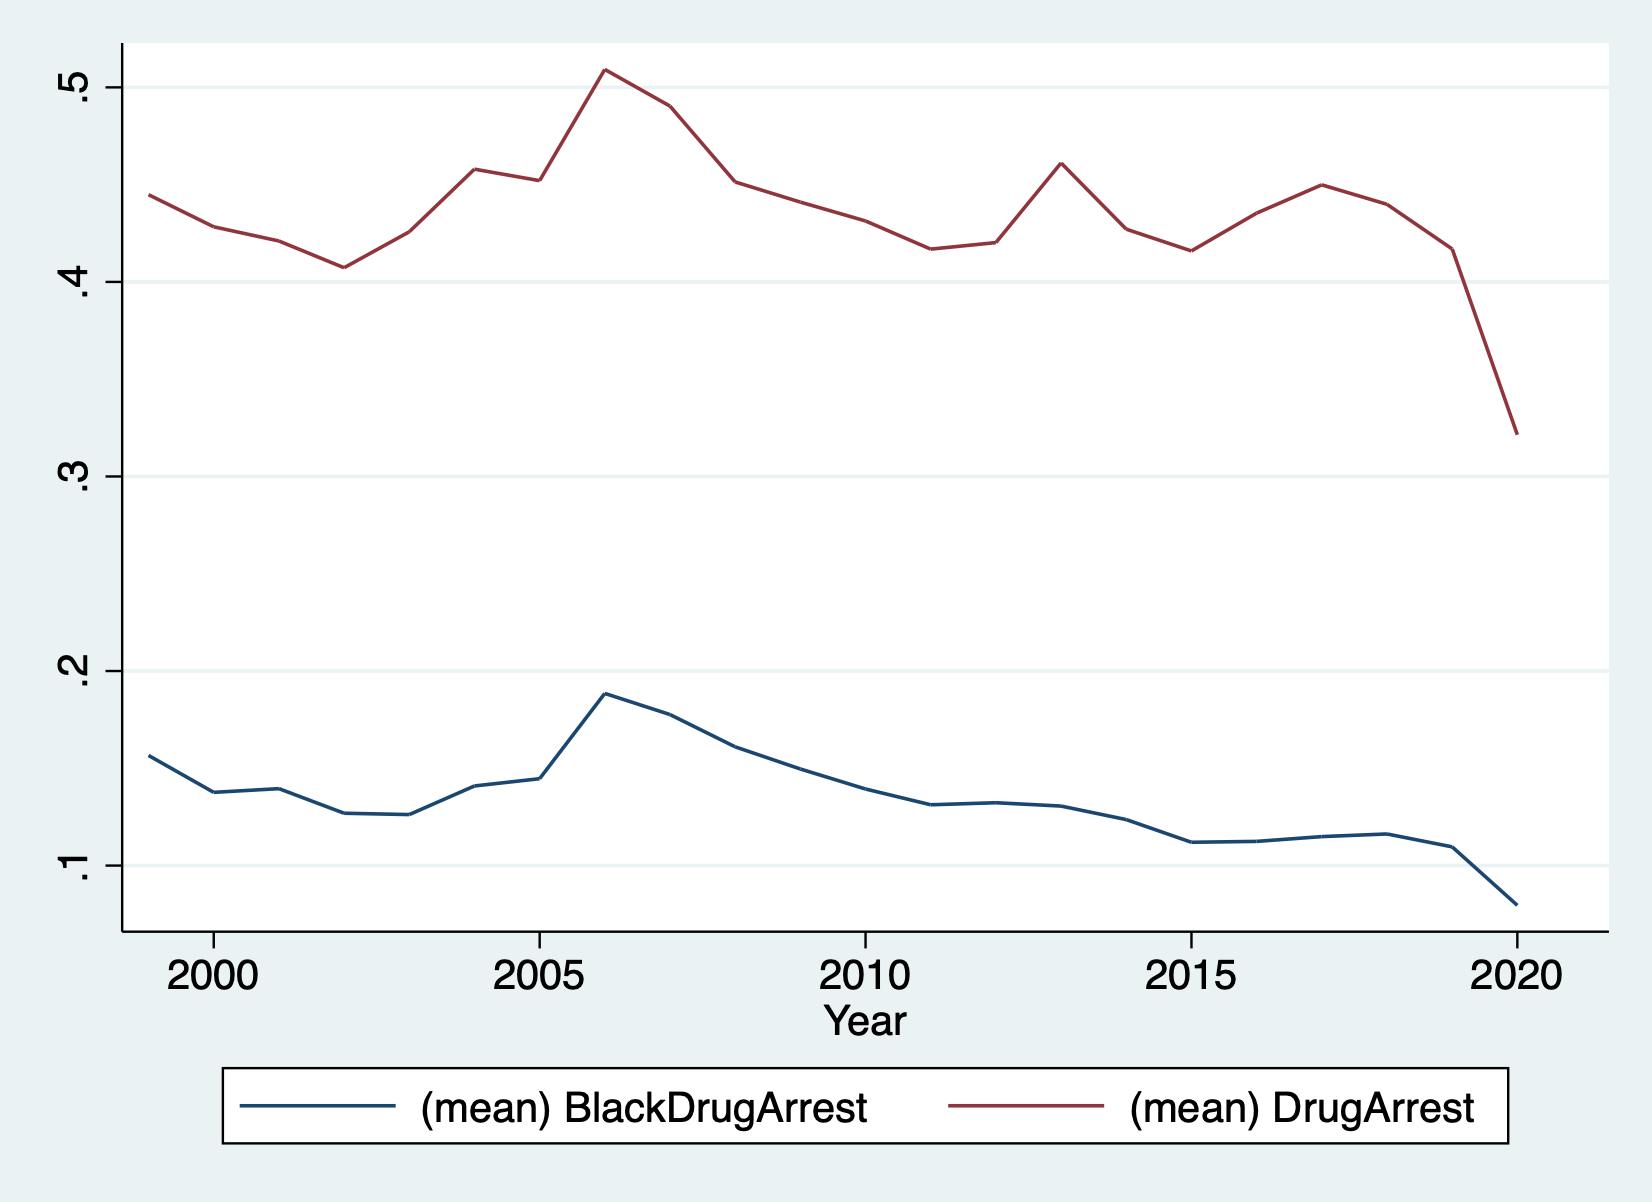
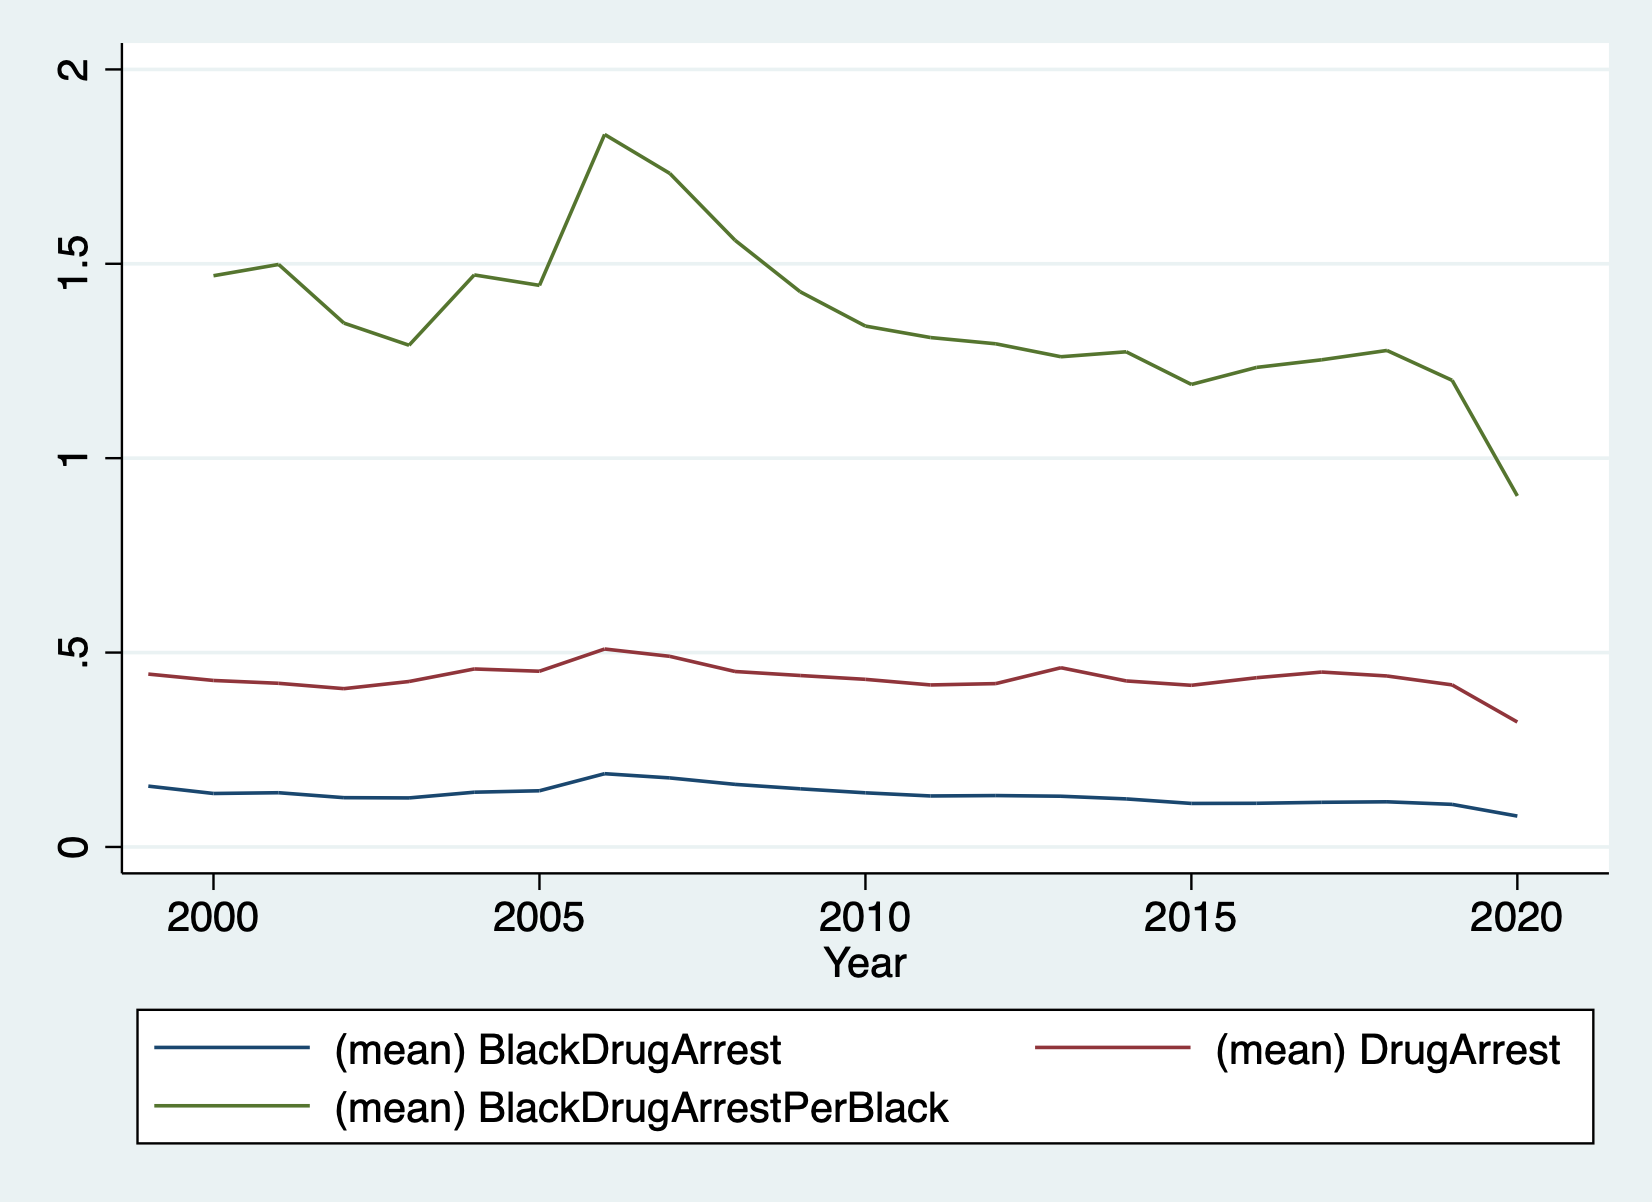
update

diff --git a/summary_stats.tex b/summary_stats.tex
@@ -9,6 +9,8 @@ Total arrest over population&        1065&       4.635&       1.428&       0.832
 Total arrest for Afr. Am. over population&        1065&       1.175&       1.059&       0.000&       5.776\\
 Drug arrest over population&        1065&       0.435&       0.198&       0.047&       1.740\\
 Drug arrest for Afr. Am. over population&        1065&       0.134&       0.147&       0.000&       1.293\\
+Black Arrest over Black Population&        1019&      12.745&       5.694&       1.626&      89.450\\
+Black Drug Arrest over Black Population&        1019&       1.362&       0.885&       0.180&       8.612\\
 \hline\hline
 \end{tabular}
 }
